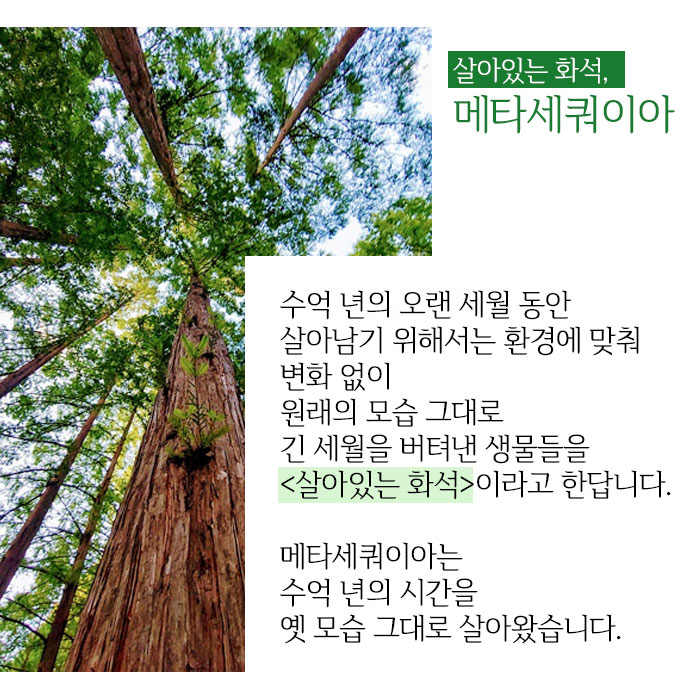
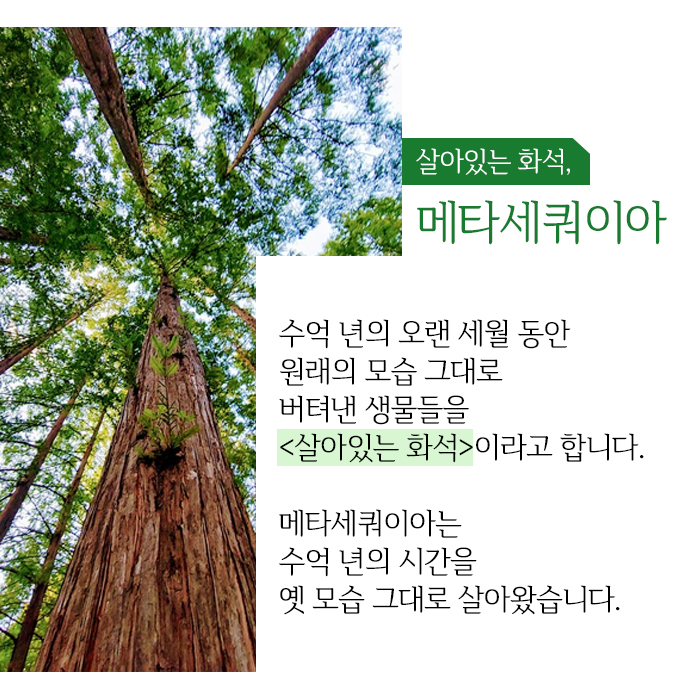
04

diff --git a/index_04.html b/index_04.html
@@ -73,12 +73,10 @@
                     그것도 약 2억 년 전부터 공룡과 함께 살았다던
                     아주아주 오래전 나무가 말이죠.</p>
             <h3>살아있는 화석, 메타세쿼이아</h3>
-                <p>수억 년의 오랜 세월 동안 
-                    살아남기 위해서는 환경에 맞춰 
-                    변화 없이
-                    원래의 모습 그대로 
-                    긴 세월을 버텨낸 생물들을 
-                    <살아있는 화석>이라고 한답니다. 
+                <p>수억 년의 오랜 세월 동안
+                    원래의 모습 그대로
+                    버텨낸 생물들을
+                    <살아있는 화석>이라고 합니다. 
                     
                     메타세쿼이아는 
                     수억 년의 시간을 
